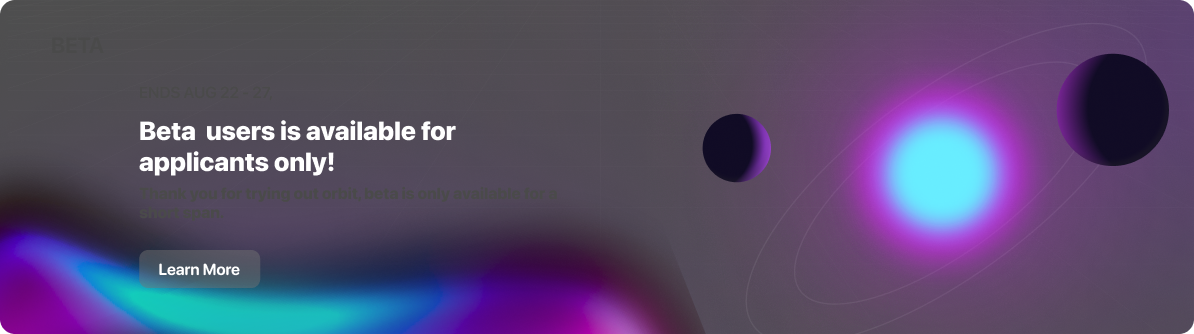
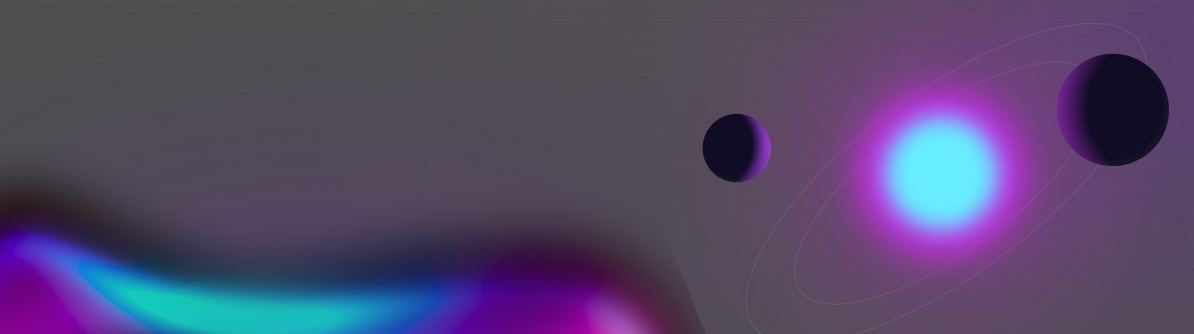
adding fallback stream + new card

diff --git a/apps/market/next.config.js b/apps/market/next.config.js
@@ -14,9 +14,10 @@ module.exports = withPWA(withTM({
   webpack: (config) => {
     config.resolve.fallback = {
       fs: false,
-      os: false,
+      os: require.resolve("os-browserify/browser"),
+      stream: require.resolve("stream-browserify"),
       path: false,
-      crypto: false,
+      crypto: require.resolve("crypto-browserify"),
     };
 
     return config;

diff --git a/apps/market/tailwind.config.js b/apps/market/tailwind.config.js
@@ -7,6 +7,9 @@ module.exports = {
     './_layouts/**/*.{js,ts,jsx,tsx}'
   ],
   theme: {
+    backgroundImage: {
+      "betacard": "url('/Cards/BetaCard.png')"
+    },
     extend: {
       colors: {
         homeheaderpurple: 'rgba(49,48,113,0.22)',

diff --git a/apps/market/pages/index.jsx b/apps/market/pages/index.jsx
@@ -1,4 +1,3 @@
-import type { NextPage } from 'next'
 import Head from 'next/head'
 import Image from 'next/image'
 
@@ -9,5 +8,3 @@ export default function AppPage() {
     <Home/>
   )
 }
-
-export default Index
